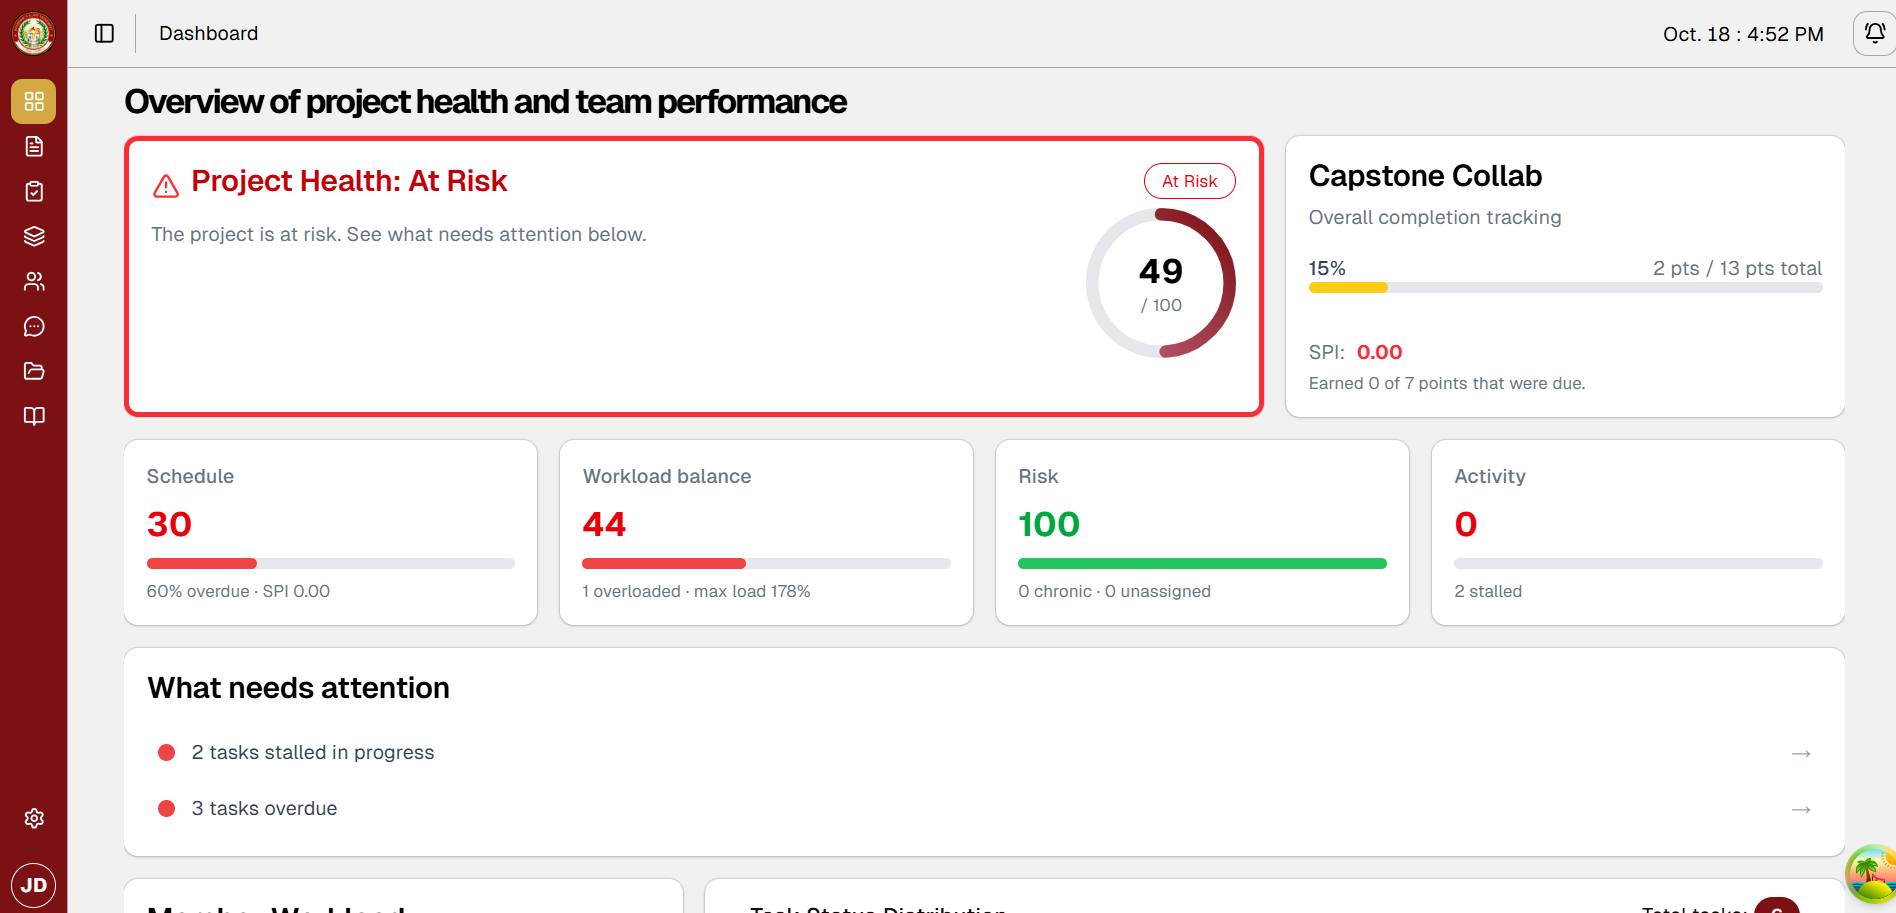
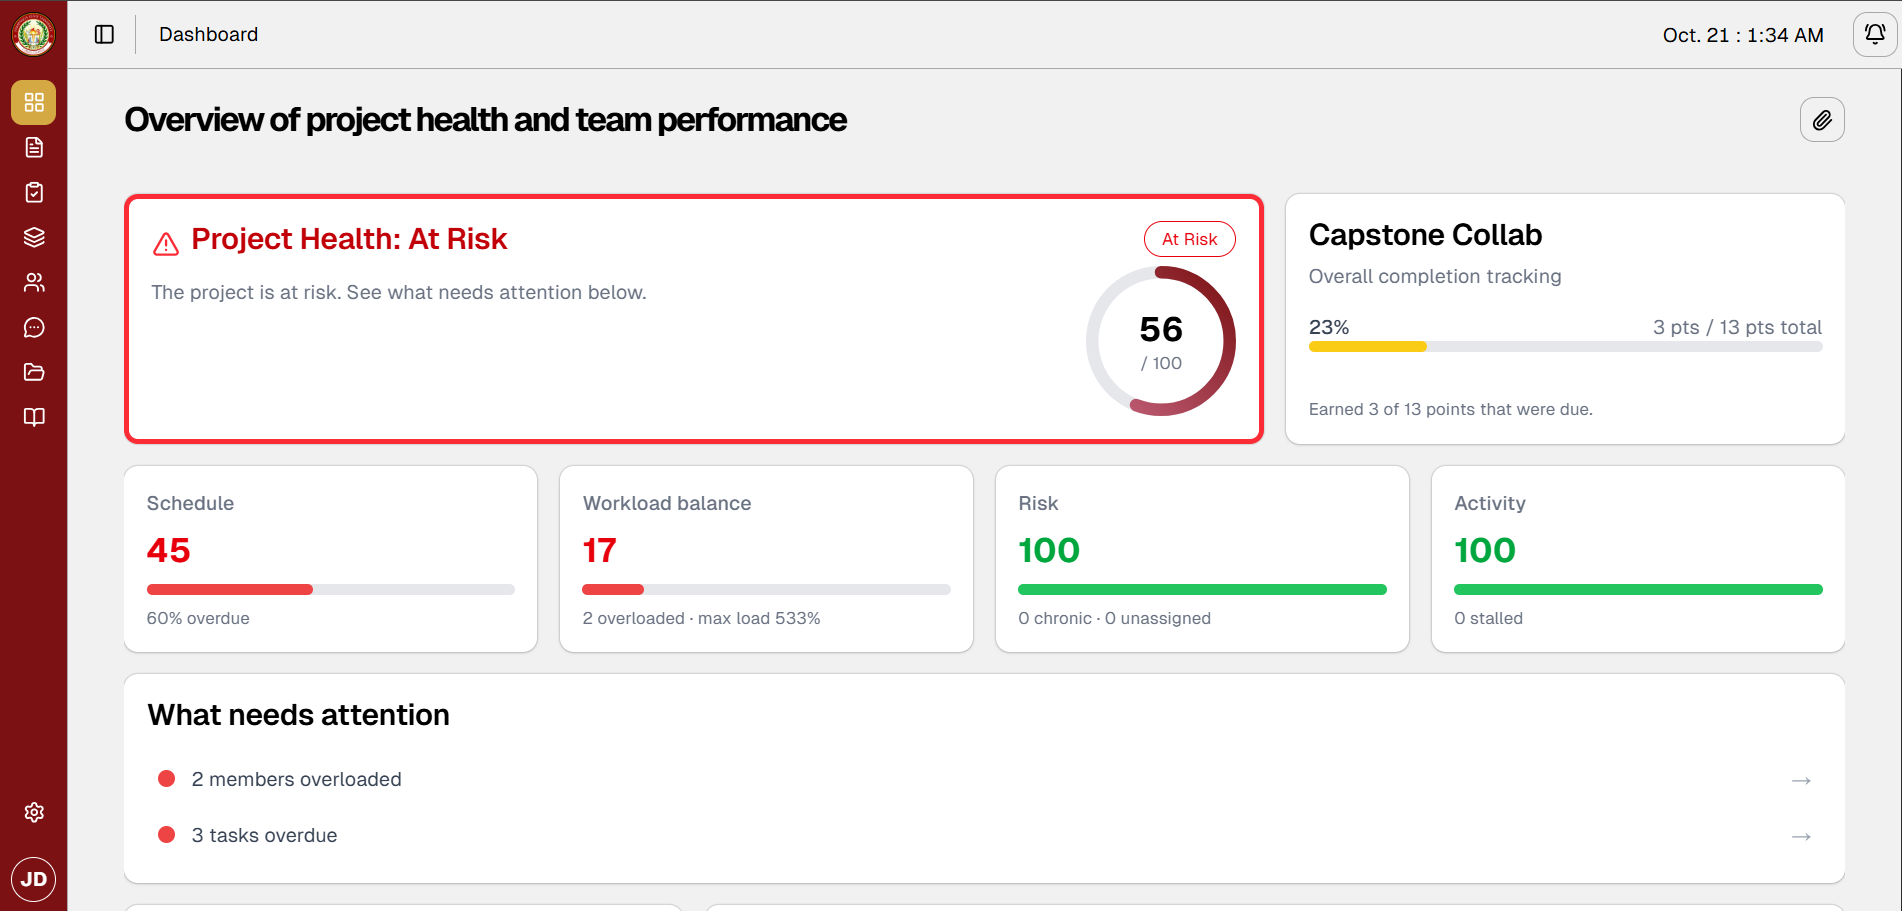
lastly

diff --git a/frontend/src/components/meetings/MeetingDialog.tsx b/frontend/src/components/meetings/MeetingDialog.tsx
@@ -1,5 +1,6 @@
 import { useState } from "react";
 import { toast } from "sonner";
+import { Check, ChevronDown } from "lucide-react";
 import { Button } from "@/components/ui/button";
 import {
   Dialog,
@@ -9,9 +10,45 @@ import {
   DialogHeader,
   DialogTitle,
 } from "@/components/ui/dialog";
+import {
+  Popover,
+  PopoverContent,
+  PopoverTrigger,
+} from "@/components/ui/popover";
 import { useCreateMeeting } from "@/hooks/useMeeting";
+import { cn } from "@/lib/utils";
 import type { MeetingProvider } from "@/types/meeting";
 
+const PROVIDER_OPTIONS: { value: MeetingProvider; label: string }[] = [
+  { value: "google_meet", label: "Google Meet" },
+  { value: "zoom", label: "Zoom" },
+];
+
+const PROVIDER_COPY: Record<
+  MeetingProvider,
+  {
+    name: string;
+    placeholder: string;
+    hint: string;
+    invalid: string;
+    saveError: string;
+  }
+> = {
+  google_meet: {
+    name: "Google Meet",
+    placeholder: "https://meet.google.com/abc-defg-hij",
+    hint: "Use an HTTPS link from meet.google.com.",
+    invalid: "Enter a valid HTTPS link from meet.google.com.",
+    saveError: "Unable to save the Google Meet link. Please try again.",
+  },
+  zoom: {
+    name: "Zoom",
+    placeholder: "https://zoom.us/j/1234567890",
+    hint: "Use an HTTPS link from zoom.us.",
+    invalid: "Enter a valid HTTPS link from zoom.us.",
+    saveError: "Unable to save the Zoom link. Please try again.",
+  },
+};
 
 function defaultStartTime() {
   const start = new Date(Date.now() + 60 * 60 * 1000);
@@ -29,6 +66,22 @@ function isGoogleMeetUrl(value: string) {
   }
 }
 
+function isZoomUrl(value: string) {
+  try {
+    const url = new URL(value);
+    return (
+      url.protocol === "https:" &&
+      (url.hostname === "zoom.us" || url.hostname.endsWith(".zoom.us"))
+    );
+  } catch {
+    return false;
+  }
+}
+
+function isValidJoinUrl(provider: MeetingProvider, value: string) {
+  return provider === "google_meet" ? isGoogleMeetUrl(value) : isZoomUrl(value);
+}
+
 export function MeetingDialog({
   open,
   onOpenChange,
@@ -43,18 +96,21 @@ export function MeetingDialog({
   const createMeeting = useCreateMeeting();
   const [selectedProvider, setSelectedProvider] =
     useState<MeetingProvider>(provider);
+  const [providerOpen, setProviderOpen] = useState(false);
   const [topic, setTopic] = useState("Weekly Capstone Meeting");
   const [joinUrl, setJoinUrl] = useState("");
   const [startTime] = useState(defaultStartTime);
   const [duration] = useState("60");
   const [validationError, setValidationError] = useState("");
 
+  const copy = PROVIDER_COPY[selectedProvider];
+
   const handleSubmit = (event: React.FormEvent<HTMLFormElement>) => {
     event.preventDefault();
     setValidationError("");
 
-    if (selectedProvider === "google_meet" && !isGoogleMeetUrl(joinUrl)) {
-      setValidationError("Enter a valid HTTPS link from meet.google.com.");
+    if (!isValidJoinUrl(selectedProvider, joinUrl.trim())) {
+      setValidationError(copy.invalid);
       return;
     }
 
@@ -71,9 +127,7 @@ export function MeetingDialog({
         topic: topic.trim(),
         start_time: parsedStart.toISOString(),
         duration_minutes: Number(duration),
-        ...(selectedProvider === "google_meet"
-          ? { join_url: joinUrl.trim() }
-          : {}),
+        join_url: joinUrl.trim(),
       },
       {
         onSuccess: () => {
@@ -81,11 +135,7 @@ export function MeetingDialog({
           onOpenChange(false);
         },
         onError: () => {
-          toast.error(
-            selectedProvider === "zoom"
-              ? "Unable to create the Zoom meeting. Please try again."
-              : "Unable to save the Google Meet link. Please try again.",
-          );
+          toast.error(copy.saveError);
         },
       },
     );
@@ -98,26 +148,71 @@ export function MeetingDialog({
           <DialogHeader>
             <DialogTitle>Create Meeting</DialogTitle>
             <DialogDescription>
-              {selectedProvider === "google_meet"
-                ? "Create a Google Meet first, then paste its meeting link here."
-                : "Create a scheduled Zoom meeting for this project."}
+              Create a {copy.name} meeting first, then paste its meeting link
+              here.
             </DialogDescription>
           </DialogHeader>
 
-          <label className="grid gap-2 text-sm font-medium">
-            Provider
-            <select
-              value={selectedProvider}
-              onChange={(event) => {
-                setSelectedProvider(event.target.value as MeetingProvider);
-                setValidationError("");
-              }}
-              className="h-9 rounded-md border bg-background px-3 font-normal outline-none focus:ring-2 focus:ring-ring"
-            >
-              <option value="google_meet">Google Meet</option>
-              <option value="zoom">Zoom</option>
-            </select>
-          </label>
+          {/* Provider */}
+          <div className="grid gap-2">
+            <span className="text-sm font-medium">Provider</span>
+
+            <Popover open={providerOpen} onOpenChange={setProviderOpen}>
+              <PopoverTrigger asChild>
+                <Button
+                  type="button"
+                  variant="outline"
+                  role="combobox"
+                  aria-expanded={providerOpen}
+                  className="w-full justify-between text-left font-normal"
+                >
+                  <span
+                    className={cn(!selectedProvider && "text-muted-foreground")}
+                  >
+                    {PROVIDER_OPTIONS.find(
+                      (option) => option.value === selectedProvider,
+                    )?.label ?? "Select provider"}
+                  </span>
+
+                  <ChevronDown className="h-4 w-4 shrink-0 opacity-50" />
+                </Button>
+              </PopoverTrigger>
+
+              <PopoverContent className="w-[--radix-popover-trigger-width] p-0">
+                <div
+                  className="max-h-64 overflow-y-auto overscroll-contain custom-scrollbar p-1"
+                  onWheel={(e) => e.stopPropagation()}
+                >
+                  {PROVIDER_OPTIONS.map((option) => {
+                    const selected = selectedProvider === option.value;
+
+                    return (
+                      <button
+                        key={option.value}
+                        type="button"
+                        onClick={() => {
+                          if (option.value !== selectedProvider) {
+                            // A link for one provider isn't valid for the other
+                            setJoinUrl("");
+                          }
+                          setSelectedProvider(option.value);
+                          setValidationError("");
+                          setProviderOpen(false);
+                        }}
+                        className="flex w-full items-center justify-between rounded-md px-2 py-1.5 text-left text-sm hover:bg-muted"
+                      >
+                        <span>{option.label}</span>
+
+                        {selected && (
+                          <Check className="h-4 w-4 text-popover-foreground" />
+                        )}
+                      </button>
+                    );
+                  })}
+                </div>
+              </PopoverContent>
+            </Popover>
+          </div>
 
           <label className="grid gap-2 text-sm font-medium">
             Topic
@@ -130,24 +225,21 @@ export function MeetingDialog({
             />
           </label>
 
-          {selectedProvider === "google_meet" && (
-            <label className="grid gap-2 text-sm font-medium">
-              Google Meet URL
-              <input
-                value={joinUrl}
-                onChange={(event) => setJoinUrl(event.target.value)}
-                placeholder="https://meet.google.com/abc-defg-hij"
-                required
-                type="url"
-                className="h-9 rounded-md border bg-background px-3 font-normal outline-none focus:ring-2 focus:ring-ring"
-              />
-              <span className="text-xs font-normal text-muted-foreground">
-                Use an HTTPS link from meet.google.com.
-              </span>
-            </label>
-          )}
+          <label className="grid gap-2 text-sm font-medium">
+            {copy.name} URL
+            <input
+              value={joinUrl}
+              onChange={(event) => setJoinUrl(event.target.value)}
+              placeholder={copy.placeholder}
+              required
+              type="url"
+              className="h-9 rounded-md border bg-background px-3 font-normal outline-none focus:ring-2 focus:ring-ring"
+            />
+            <span className="text-xs font-normal text-muted-foreground">
+              {copy.hint}
+            </span>
+          </label>
 
-          
           {validationError && (
             <p className="text-sm text-destructive">{validationError}</p>
           )}

diff --git a/frontend/src/pages/LandingPage.tsx b/frontend/src/pages/LandingPage.tsx
@@ -3,9 +3,10 @@ import { useEffect, useState, type ReactNode } from "react";
 import { Link } from "react-router-dom";
 import { Button } from "@/components/ui/button";
 import workloadBalanceImage from "@/assets/landing page/workload balance.png";
-import contributionMetricsImage from "@/assets/landing page/contribution metrics.jpg";
+import contributionMetricsImage from "@/assets/landing page/contribution metrics.png";
 import dashboardImage from "@/assets/landing page/Dashboard.png";
-import taskApprovalImage from "@/assets/landing page/task approval.jpg";
+import taskApprovalWorkflowImage from "@/assets/landing page/task approval.jpg";
+import taskRedistributionImage from "@/assets/landing page/task redistribution.png";
 import psuLogo from "@/assets/psu-logo.jpg";
 import {
   CheckCircle2,
@@ -45,6 +46,7 @@ const FEATURES: Feature[] = [
     icon: <RefreshCw />,
     title: "Smart Task Redistribution",
     desc: "System suggests actionable fixes transfer, split, or convert tasks with impact previews.",
+    image: taskRedistributionImage,
   },
   {
     icon: <CheckCircle2 />,
@@ -57,7 +59,7 @@ const FEATURES: Feature[] = [
     icon: <CheckCircle2 />,
     title: "Task Approval Workflow",
     desc: "Structured review pipeline with AI-assisted evaluation and inline comments.",
-    image: taskApprovalImage,
+    image: taskApprovalWorkflowImage,
   },
 ];
 
@@ -204,7 +206,7 @@ function FeatureSection() {
         <div className="grid grid-cols-1 gap-12 lg:grid-cols-2 lg:gap-16">
           <div className="animate-on-scroll order-1">
             {/* No padding here so the image can bleed off the edges */}
-            <div className="relative aspect-4/3 overflow-hidden rounded-3xl bg-amber-100 dark:bg-amber-950/40">
+            <div className="relative aspect-4/3 overflow-hidden rounded-3xl bg-amber-100 dark:bg-[#08233B]">
               {FEATURES.map((feature, index) => {
                 const isActive = activeIndex === index;
 

diff --git a/frontend/src/components/user/EditResourceDialog.tsx b/frontend/src/components/user/EditResourceDialog.tsx
@@ -347,7 +347,7 @@ function EditForm({
                         setCategory(name);
                         setCategoryOpen(false);
                       }}
-                      className="flex w-full items-center justify-between rounded-md px-2 py-1.5 text-left text-sm hover:bg-neutral-100"
+                      className="flex w-full items-center justify-between rounded-md px-2 py-1.5 text-left text-sm hover:bg-neutral-100 dark:hover:bg-neutral-800"
                     >
                       <span className="flex items-center gap-2">
                         <CategoryIcon className="size-4 text-muted-foreground" />
